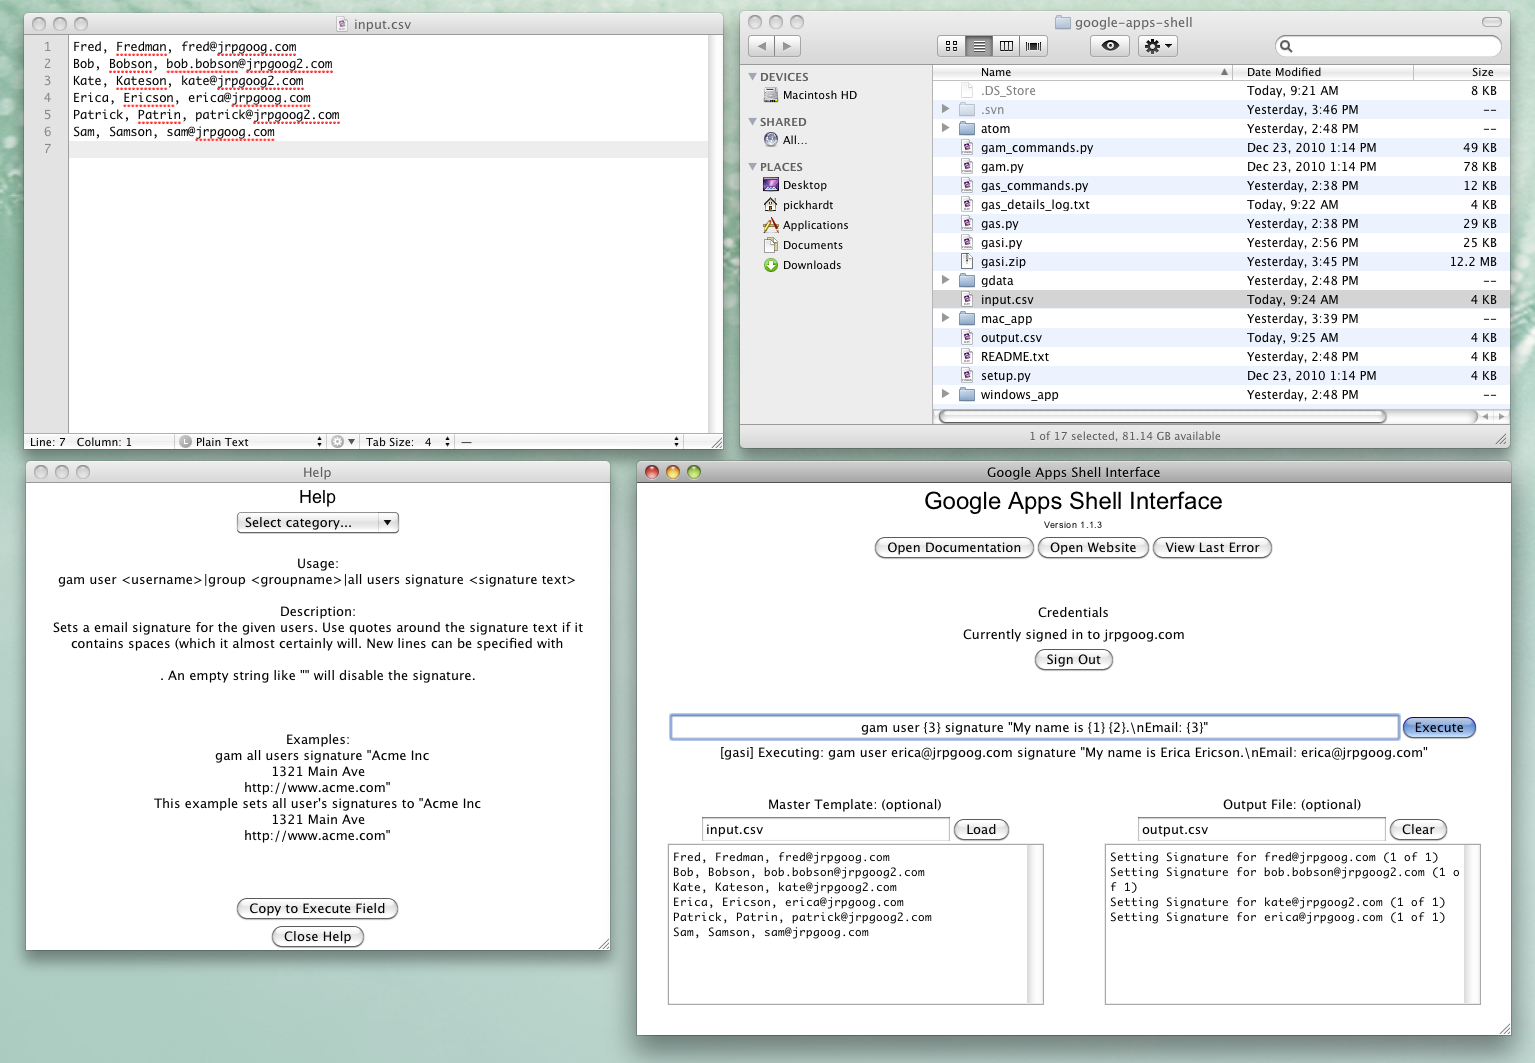
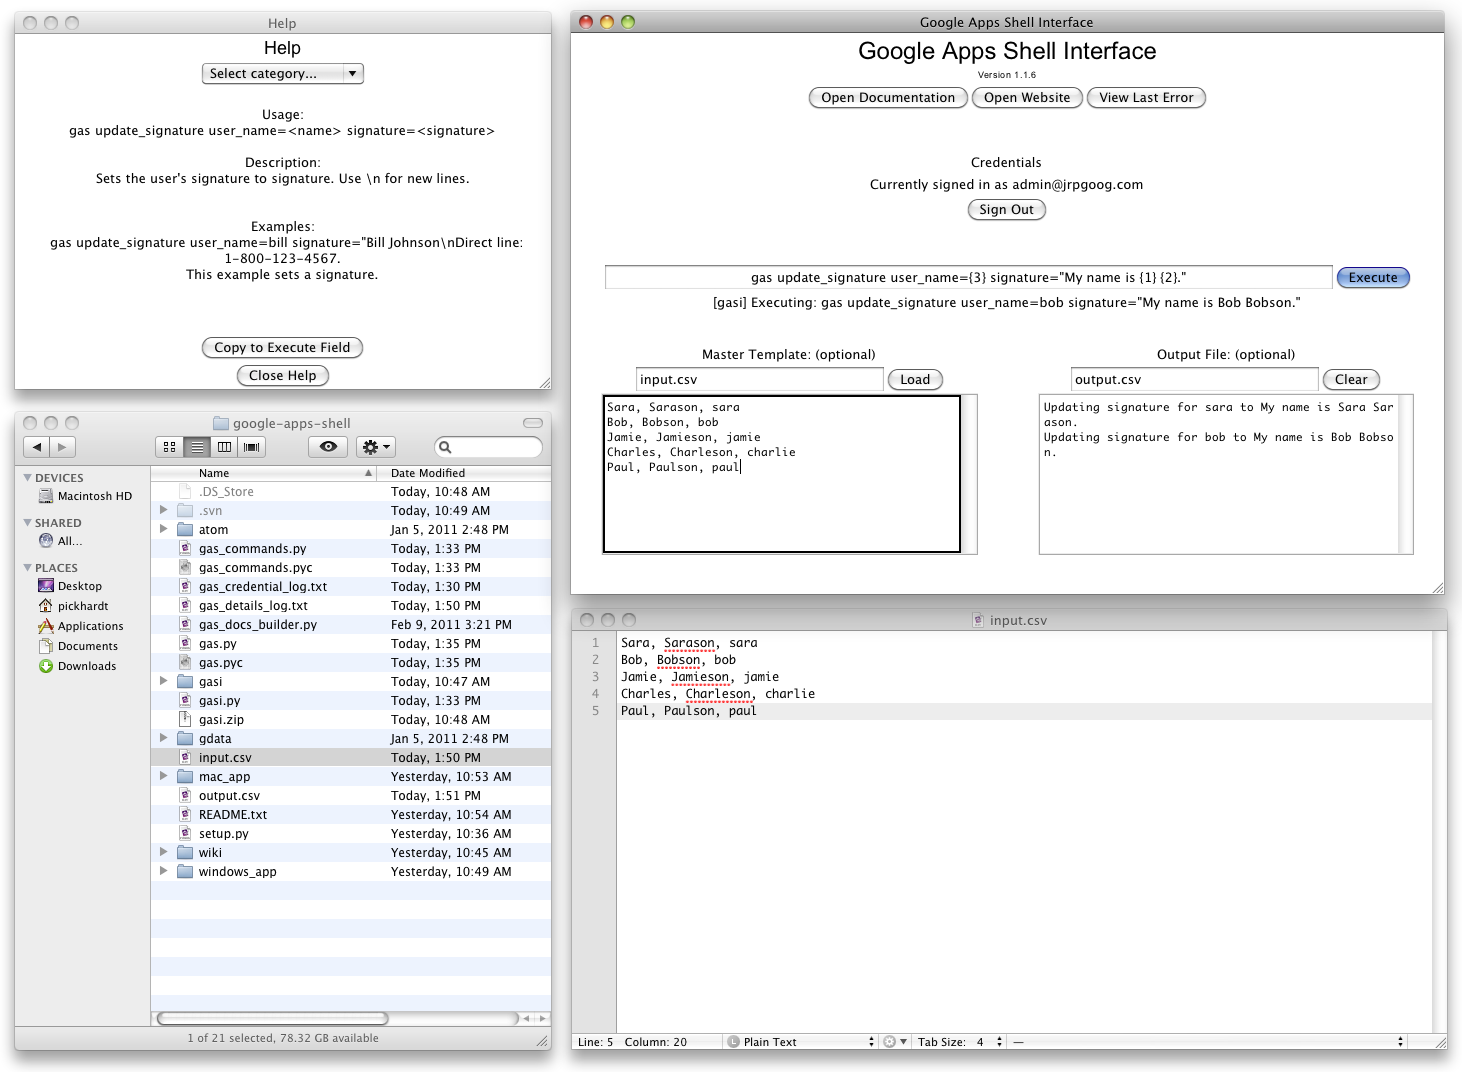
Fixed a bug relating to delete_user, and updated screen shots.

diff --git a/trunk/gas.py b/trunk/gas.py
@@ -21,7 +21,7 @@
 """Google Apps Shell is a script allowing Google Apps administrators to issue simple commands to their Apps domain."""
 
 __author__ = 'jeffpickhardt@google.com (Jeff Pickhardt)'
-__version__ = '1.1.5'
+__version__ = '1.1.6'
 __license__ = 'Apache License 2.0 (http://www.apache.org/licenses/LICENSE-2.0)'
 
 import sys, os, time, datetime, random, cgi, socket, urllib, csv
@@ -395,7 +395,7 @@ def rename_user(credential, user_name, new_user_name):
     """Renames the user with username user_name with new_user_name. This function is explicitly included since renaming user is such a popular feature."""
     update_user(credential, user_name, new_user_name)
 
-def delete_user(credential, user_name, no_rename=False):
+def delete_user(credential, user_name, no_rename='false'):
     """Deletes the user with username user_name. The username is first renamed to include the current timestamp; this is so that a new user with the same username can be recreated immediately. If no_rename is set, this part is skipped."""
     old_domain=''
     if user_name.find('@') > 0:
@@ -403,7 +403,8 @@ def delete_user(credential, user_name, no_rename=False):
         credential.service.domain = user_name[user_name.find('@')+1:]
         user_name = user_name[:user_name.find('@')]
     
-    if no_rename.lower()=='true':
+    no_rename=str_to_bool(no_rename)
+    if no_rename:
         log('Deleting %s' % user_name)
         credential.service.DeleteUser(user_name)
     else:

diff --git a/trunk/gasi.py b/trunk/gasi.py
@@ -17,7 +17,7 @@
 """Google Apps Shell Interface is a graphical user interface designed to simplify use of the Google Apps related APIs."""
 
 __author__ = 'jeffpickhardt@google.com (Jeff Pickhardt)'
-__version__ = '1.1.5'
+__version__ = '1.1.6'
 __license__ = 'Apache License 2.0 (http://www.apache.org/licenses/LICENSE-2.0)'
 
 import sys

diff --git a/trunk/gas_commands.py b/trunk/gas_commands.py
@@ -2,7 +2,7 @@
 #
 # Documentation for the GAS commands.
 
-__version__ = '1.1.5'
+__version__ = '1.1.6'
 
 commands = {
 
